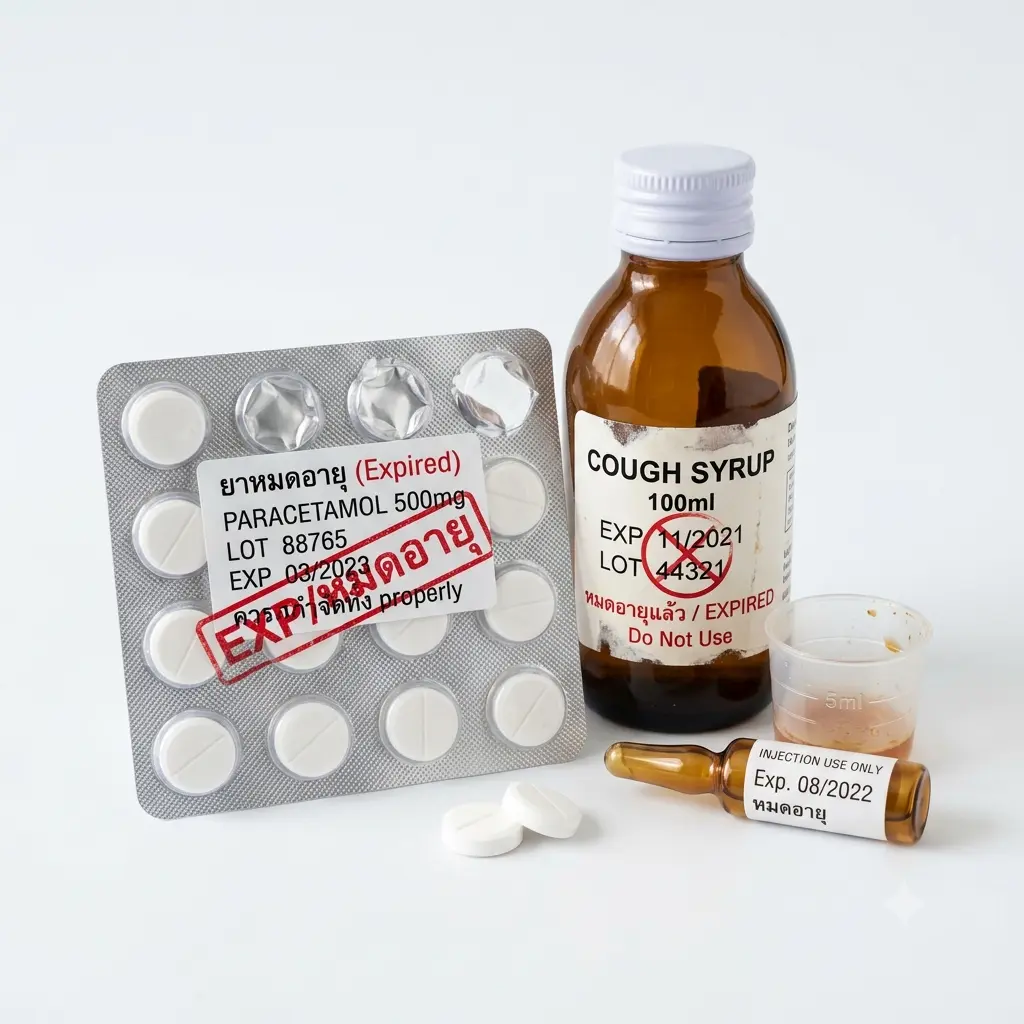
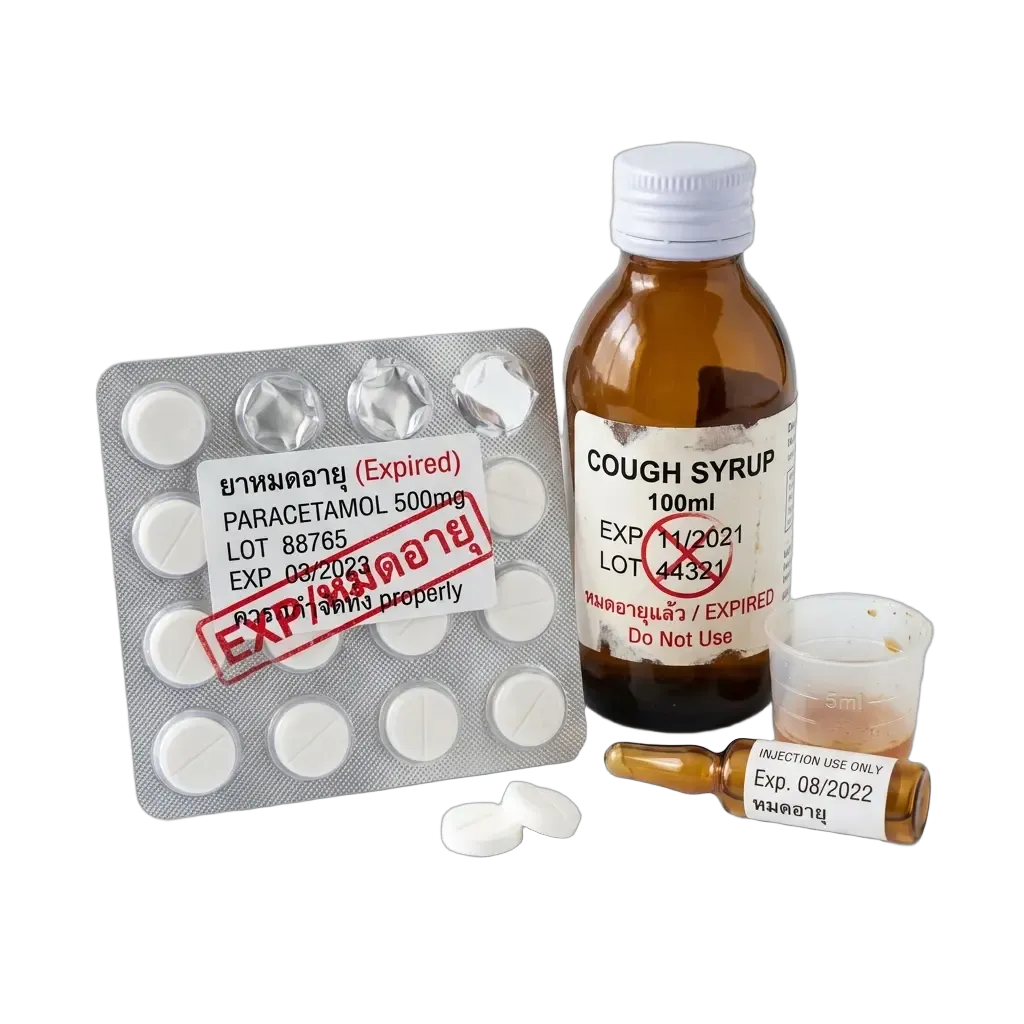
strip white backgrounds from game item photos, drop multiply hack
The 30 item photos (banana peel, plastic bottle, etc.) were plain
product shots on white backgrounds, relying on mix-blend-mode:
multiply in GameItemImage to make the white blend into whatever card
color sat behind it. On a colored card the white edge was still
visible as a faint box, which read as "there's a rectangle here" —
not what an item floating on the page should look like.

Ran each through rembg (bria-rmbg-2.0 model) to actually cut the
subject out — same 1024x1024 dimensions and .webp filenames, now
RGBA with real transparency instead of an RGB photo on white. Spot
checked all 30 for edge quality (composited a sample against a
saturated blue to catch halo/fringing) before overwriting; none
showed artifacts even on fiddly subjects like the shattered ceramic
bowl.

With real transparency, mix-blend-mode: multiply is not just
unneeded but actively wrong — it would darken the item's own colors
by multiplying them against whatever sits behind it. Removed it from
GameItemImage. BinImage's bin icons are untouched; they're a
different, still-white-background image set this change doesn't
touch.

diff --git a/src/components/GameItemImage.tsx b/src/components/GameItemImage.tsx
@@ -6,7 +6,10 @@ interface GameItemImageProps {
   className?: string
 }
 
-// รูปไอเท็มในเกมแยกขยะ — ถ้าไฟล์ยังไม่มี (หรือโหลดไม่สำเร็จ) จะ fallback กลับไปแสดง emoji เดิม
+// รูปไอเท็มในเกมแยกขยะ — พื้นหลังตัดออกจริง (โปร่งใส) แล้ว จึงวางทับพื้นสีอะไรก็ได้ตรงๆ
+// ไม่ใช้ mix-blend-mode: multiply อีกต่อไป (เคยใช้กลืนพื้นขาวตอนรูปยังมีพื้นหลังทึบอยู่ —
+// ถ้าใส่ไว้กับรูปโปร่งใสจะทำให้สีวัตถุมืดคล้ำลงตามสีพื้นหลังการ์ด ไม่ใช่ประโยชน์อีกแล้ว)
+// ถ้าไฟล์ยังไม่มี (หรือโหลดไม่สำเร็จ) จะ fallback กลับไปแสดง emoji เดิม
 export default function GameItemImage({
   src,
   emoji,
@@ -28,7 +31,6 @@ export default function GameItemImage({
       alt=""
       onError={() => setFailed(true)}
       className={`${className} aspect-square object-contain mx-auto mb-3`}
-      style={{ mixBlendMode: 'multiply' }}
     />
   )
 }
